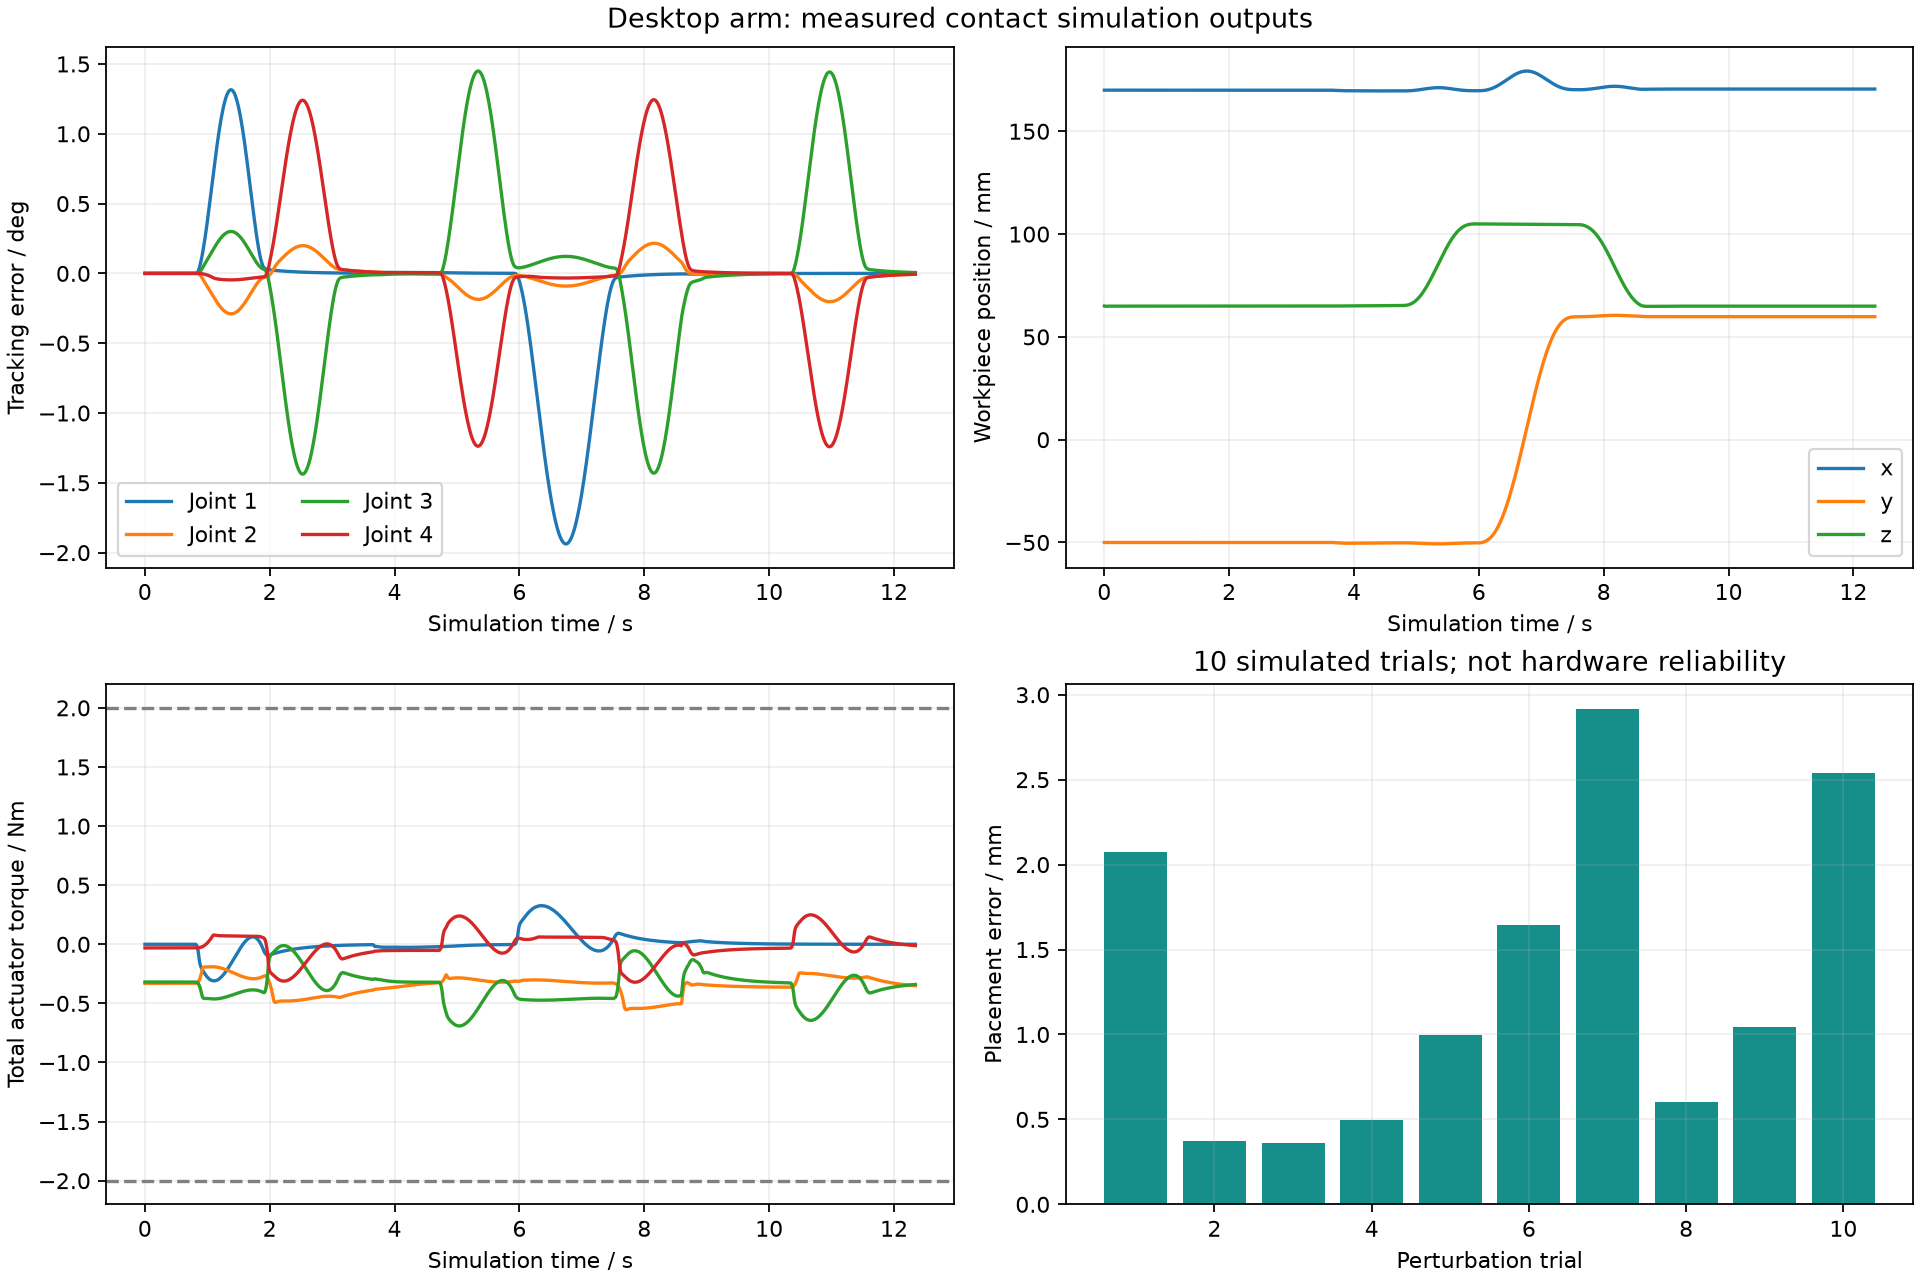
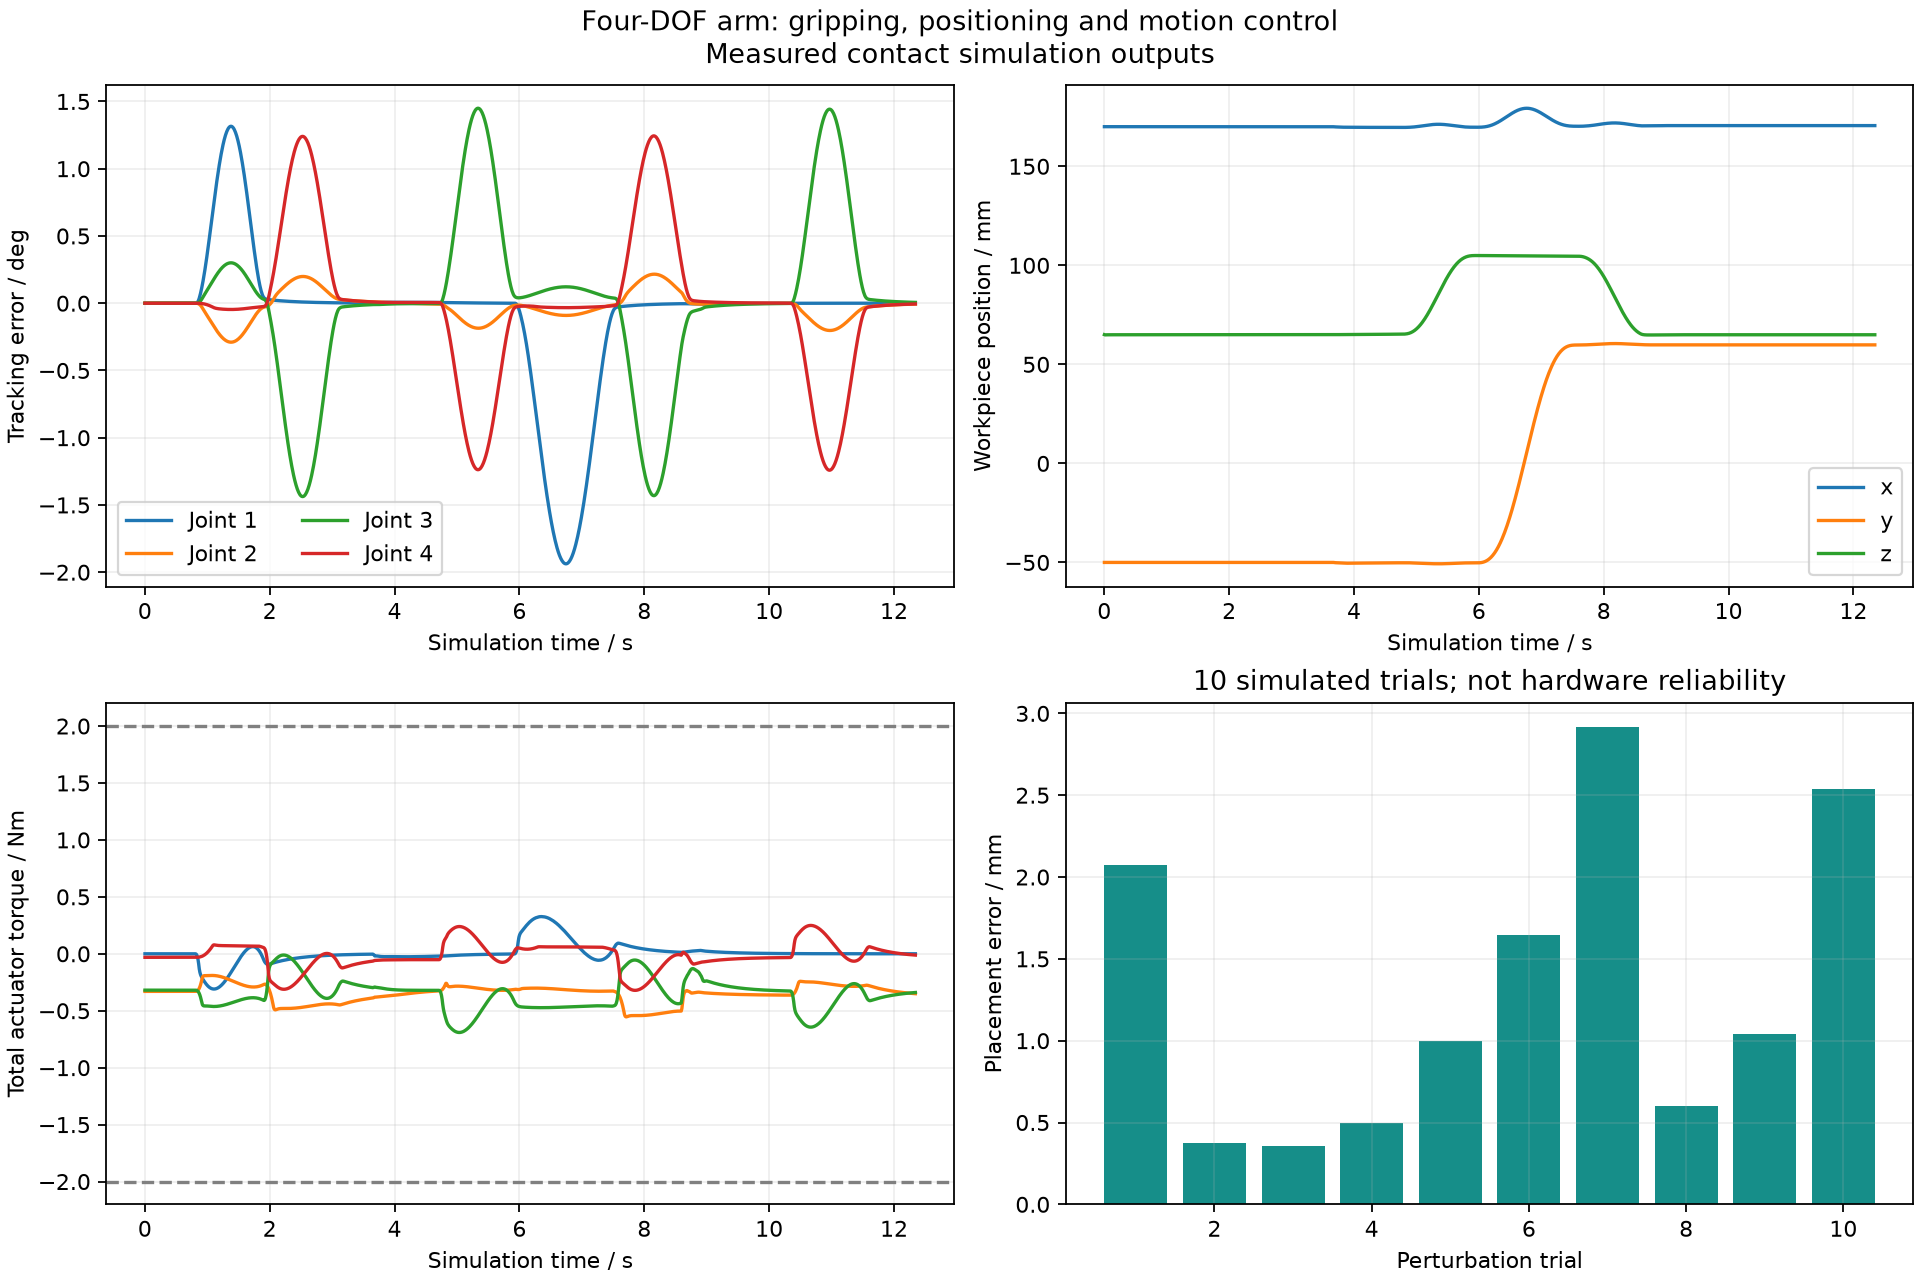
Clarify gripping attachments and table-mounted positioning mechanisms

diff --git a/cad/build.py b/cad/build.py
@@ -81,7 +81,7 @@ def draw(f,c,p):
     ax.set_xlim(-cl/2-9,cl/2+9);ax.set_ylim(-cw/2-14,cw/2+17)
     for ax in axes:
         ax.set_aspect('equal');ax.set_xlabel('mm');ax.set_ylabel('mm');ax.grid(alpha=.15)
-    fig.suptitle('Desktop arm - Parametric mechanical parts / Units mm / Rev A',fontsize=15)
+    fig.suptitle('Four-DOF arm - Gripping and positioning parts / Units mm / Rev A',fontsize=15)
     fig.savefig(OUT/'engineering_drawing.png',dpi=180)
     fig.savefig(OUT/'engineering_drawing.pdf')
     plt.close(fig)

diff --git a/desktop_arm/cli.py b/desktop_arm/cli.py
@@ -5,7 +5,7 @@ from .paths import project_root
 
 
 def main():
-    parser = argparse.ArgumentParser(description='Desktop workpiece transfer tools')
+    parser = argparse.ArgumentParser(description='Four-DOF arm gripping, positioning and motion control')
     sub = parser.add_subparsers(dest='command',required=True)
     sim = sub.add_parser('simulate')
     sim.add_argument('--output',type=Path,default=project_root()/'results/native')

diff --git a/scripts/plot_results.py b/scripts/plot_results.py
@@ -35,7 +35,7 @@ def main():
         ax.grid(alpha=.2)
     for ax in [axes[0,0],axes[0,1],axes[1,0]]:
         ax.set_xlabel('Simulation time / s')
-    fig.suptitle('Desktop arm: measured contact simulation outputs')
+    fig.suptitle('Four-DOF arm: gripping, positioning and motion control\nMeasured contact simulation outputs')
     fig.savefig(ROOT/'results/native/performance.png',dpi=160)
     plt.close(fig)
 

diff --git a/README.md b/README.md
@@ -1,8 +1,8 @@
-# 四自由度机械臂末端工装设计与轨迹控制
+# 四自由度机械臂夹持与定位机构设计及运动控制
 
-[![Tests](https://github.com/llllgt/desktop-arm-tooling-control/actions/workflows/tests.yml/badge.svg)](https://github.com/llllgt/desktop-arm-tooling-control/actions/workflows/tests.yml)
+[![Tests](https://github.com/llllgt/desktop-arm-gripping-positioning-control/actions/workflows/tests.yml/badge.svg)](https://github.com/llllgt/desktop-arm-gripping-positioning-control/actions/workflows/tests.yml)
 
-基于 OpenMANIPULATOR-X 的末端工装设计与运动控制仿真项目。以小型工件在两个托座间转运为任务，完成夹指背板、接触垫和托座的参数化建模，结合四轴运动学、关节轨迹与 ROS 2 控制接口，验证结构和运动方案。
+基于 OpenMANIPULATOR-X 的夹持附件、定位托座设计与运动控制仿真项目。以小型工件在两个托座间转运为任务，完成夹指背板、接触垫和托座的参数化建模，结合四轴运动学、关节轨迹与 ROS 2 控制接口，验证结构和运动方案。夹持附件安装于机械臂末端，定位托座安装于工作台，二者分别承担夹持与支承定位功能。
 
 ![搬运演示](results/native/demo.gif)
 
@@ -86,5 +86,6 @@ Ubuntu 24.04 + ROS 2 Jazzy 可按文档构建本 ROS 包；该平台尚未实际
 | ROS 控制与任务节点 | `desktop_arm/ros_nodes.py` |
 | 原始测量、演示及分析图 | `results/` |
 | 推荐学习顺序 | [项目阅读路线](docs/项目阅读路线.md) |
+| 简历项目表述参考 | [简历项目表述](docs/简历项目表述.md) |
 
 许可证：Apache-2.0。上游来源及许可证保留，第三方依赖遵循各自许可证。

diff --git a/docs/简历项目表述.md b/docs/简历项目表述.md
@@ -1,0 +1,15 @@
+# 简历项目表述参考
+
+以下表述对应仓库已有成果，适合亲自复现、理解并能解释之后使用。项目由 AI 辅助实现，个人贡献应根据实际学习、修改和验证经历调整，不写“独立研发”或未经完成的实机调试。
+
+## 四自由度机械臂夹持与定位机构设计及运动控制
+
+技术栈：参数化 CAD、有限元分析、Python、ROS 2、MuJoCo。
+
+项目地址：https://github.com/llllgt/desktop-arm-gripping-positioning-control
+
+- **夹持与定位结构设计：** 基于 OpenMANIPULATOR-X，围绕矩形工件搬运任务设计夹指背板、TPU 接触垫及定位托座，结合夹持空间与运动净空确定结构尺寸，输出 STEP 模型、参考尺寸图和零件清单。
+- **结构校核：** 建立夹指背板的简化悬臂模型，采用梁理论与三维有限元交叉核对；在 6 N 参考载荷下，计算端部挠度约 0.048 mm，并检查网格细化影响与力平衡。
+- **运动控制与验证：** 建立四轴正逆运动学模型，采用满足速度、加速度约束的五次关节轨迹，通过 ROS 2 实现夹取、抬升、转移和放置流程；默认 30 g 工件接触仿真中，最终放置偏差约 0.57 mm，10 组参数扰动均完成搬运。
+
+夹持附件安装于机械臂末端，定位托座安装于工作台，避免将两者统称为“末端工装”。0.57 mm 是默认场景的仿真放置偏差，不是实机重复定位精度。结构校核仅覆盖背板简化参考工况，不代表胶粘连接或整套结构已经实物验证。

diff --git a/docs/设计说明.md b/docs/设计说明.md
@@ -1,4 +1,4 @@
-# 四自由度机械臂末端工装设计与轨迹控制：设计说明
+# 四自由度机械臂夹持与定位机构设计及运动控制：设计说明
 
 ## 任务与边界
 
@@ -6,7 +6,9 @@
 
 机械臂有四个转动关节和一个平行夹爪。能控制位置与径向平面中的俯仰，不能独立控制任意六维位姿。工具俯仰选择 1.3 rad：经过逆解和关节范围检查，垂直朝下的原方案在抬升处超腕部范围，故调整姿态。
 
-## 结构附件
+## 夹持附件与定位托座
+
+夹持附件位于机械臂末端，定位托座固定在工作台上。项目名称中的“夹持与定位机构”指这两类新增结构；基础夹爪连杆与机械臂整机沿用上游设计。
 
 设计源为 `cad/design.json` 与 `cad/build.py`，以毫米建模。夹指附件由 26 × 14 × 2 mm 铝合金背板和同尺寸 TPU 接触垫组成；单侧新增质量 2.8028 g。拟以胶粘方式贴合夹指接触面。夹指 STL 在末端区域的公开几何截面用于估计贴合面，尚无实物测量或试装；不得把该附件写成已经加工装配成功。
 

diff --git a/docs/项目阅读路线.md b/docs/项目阅读路线.md
@@ -42,6 +42,6 @@
 
 可采用的客观项目表述：
 
-> 四自由度机械臂末端工装设计与轨迹控制：基于 OpenMANIPULATOR-X 开展夹指附件与定位托座的参数化设计，结合四轴运动学、五次关节轨迹与 ROS 2 action 控制完成搬运仿真；通过梁理论/有限元及接触实验核对结构和运动方案。
+> 四自由度机械臂夹持与定位机构设计及运动控制：基于 OpenMANIPULATOR-X 开展夹指附件与定位托座的参数化设计，结合四轴运动学、五次关节轨迹与 ROS 2 action 控制完成搬运仿真；通过梁理论/有限元及接触实验核对结构和运动方案。
 
 将表述中的个人动作调整为你真正做过、能现场解释的内容；仿真指标单独注明验证条件。
